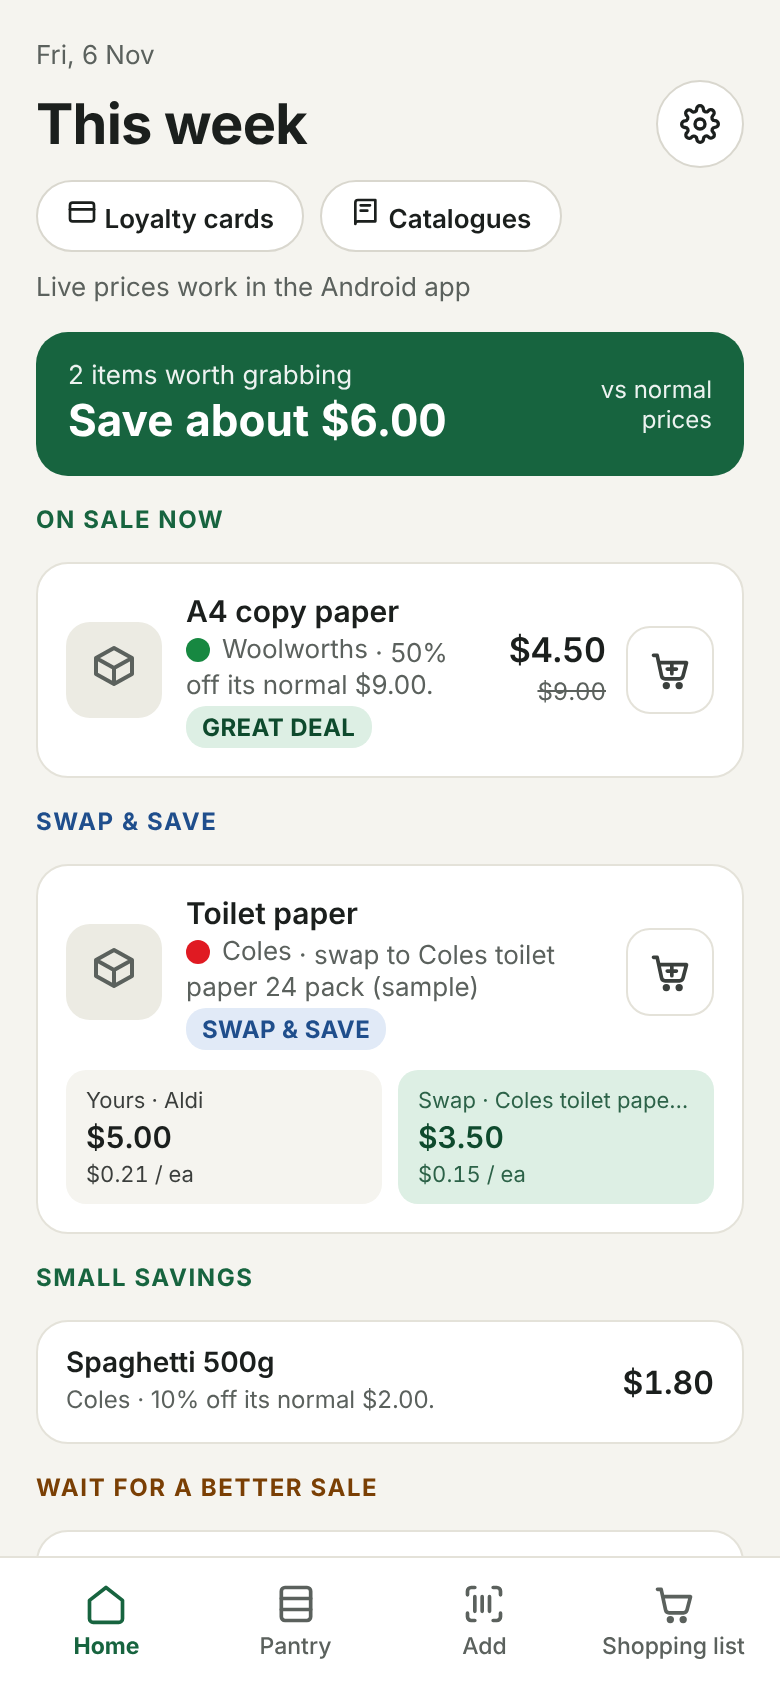
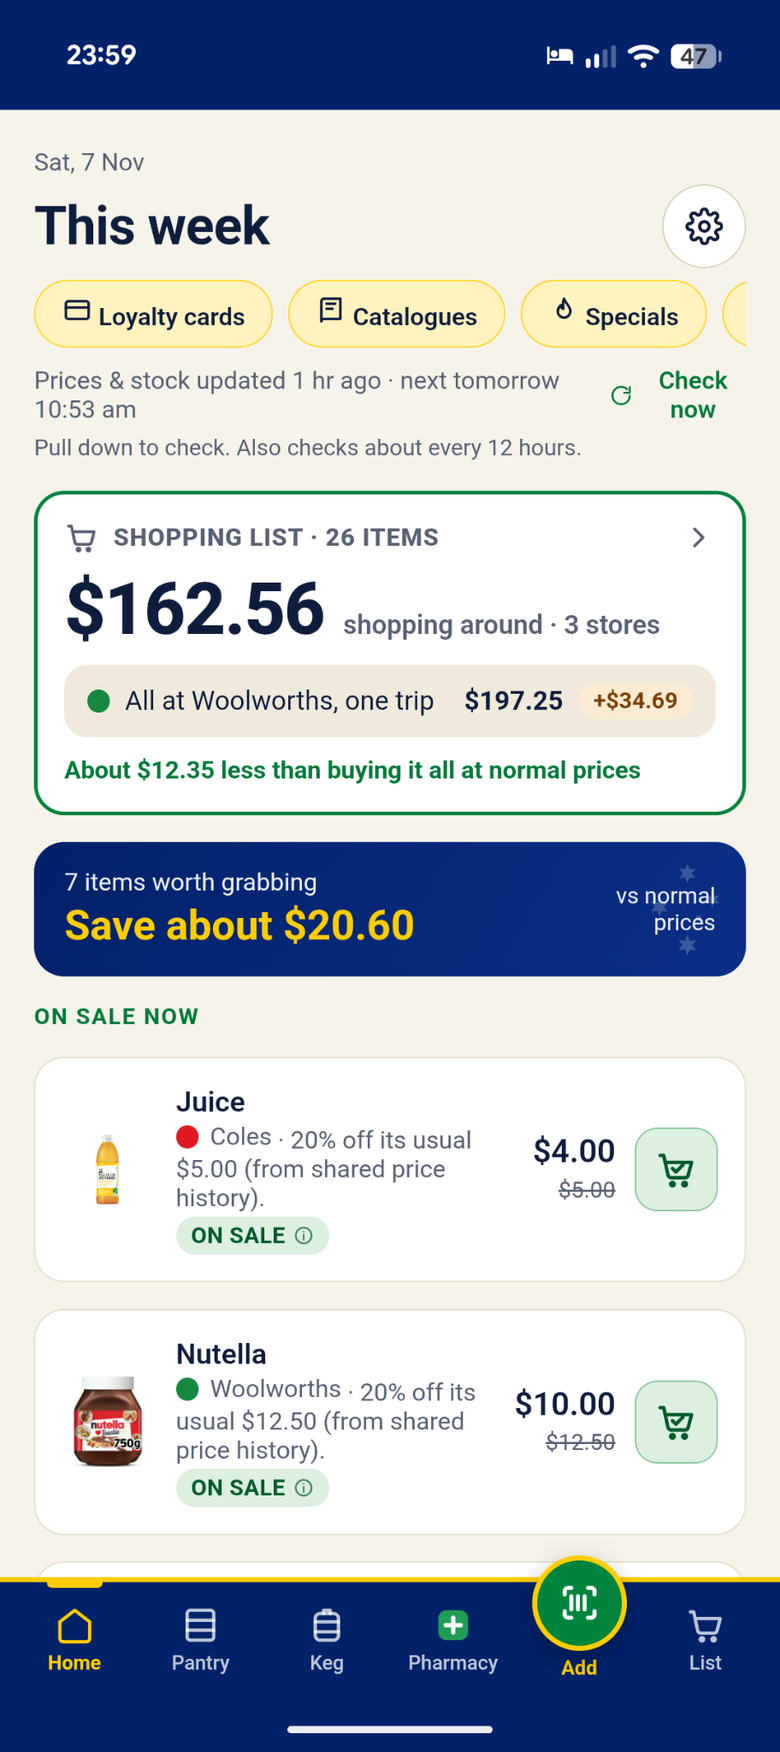
New screenshots

diff --git a/README.md b/README.md
@@ -27,8 +27,8 @@
 
 | | | |
 |---|---|---|
-| ![Home](docs/screenshots/home.png) | ![An item's price history](docs/screenshots/item.png) | ![Shopping list](docs/screenshots/list.png) |
-| ![Pantry](docs/screenshots/pantry.png) | ![Shopping mode](docs/screenshots/shopping.png) | ![Privacy](docs/screenshots/privacy.png) |
+| ![Home: this week's deals and your shopping list total](docs/screenshots/home.png) | ![Pantry: everything you buy, with today's verdict](docs/screenshots/pantry.png) | ![Scanning: the same product ticked at each shop](docs/screenshots/scan.png) |
+| ![An item's price history and verdict](docs/screenshots/item.png) | ![The same product compared across shops](docs/screenshots/compare.png) | ![Dark mode: a great deal on a multi-buy](docs/screenshots/dark.png) |
 
 ## Why
 
